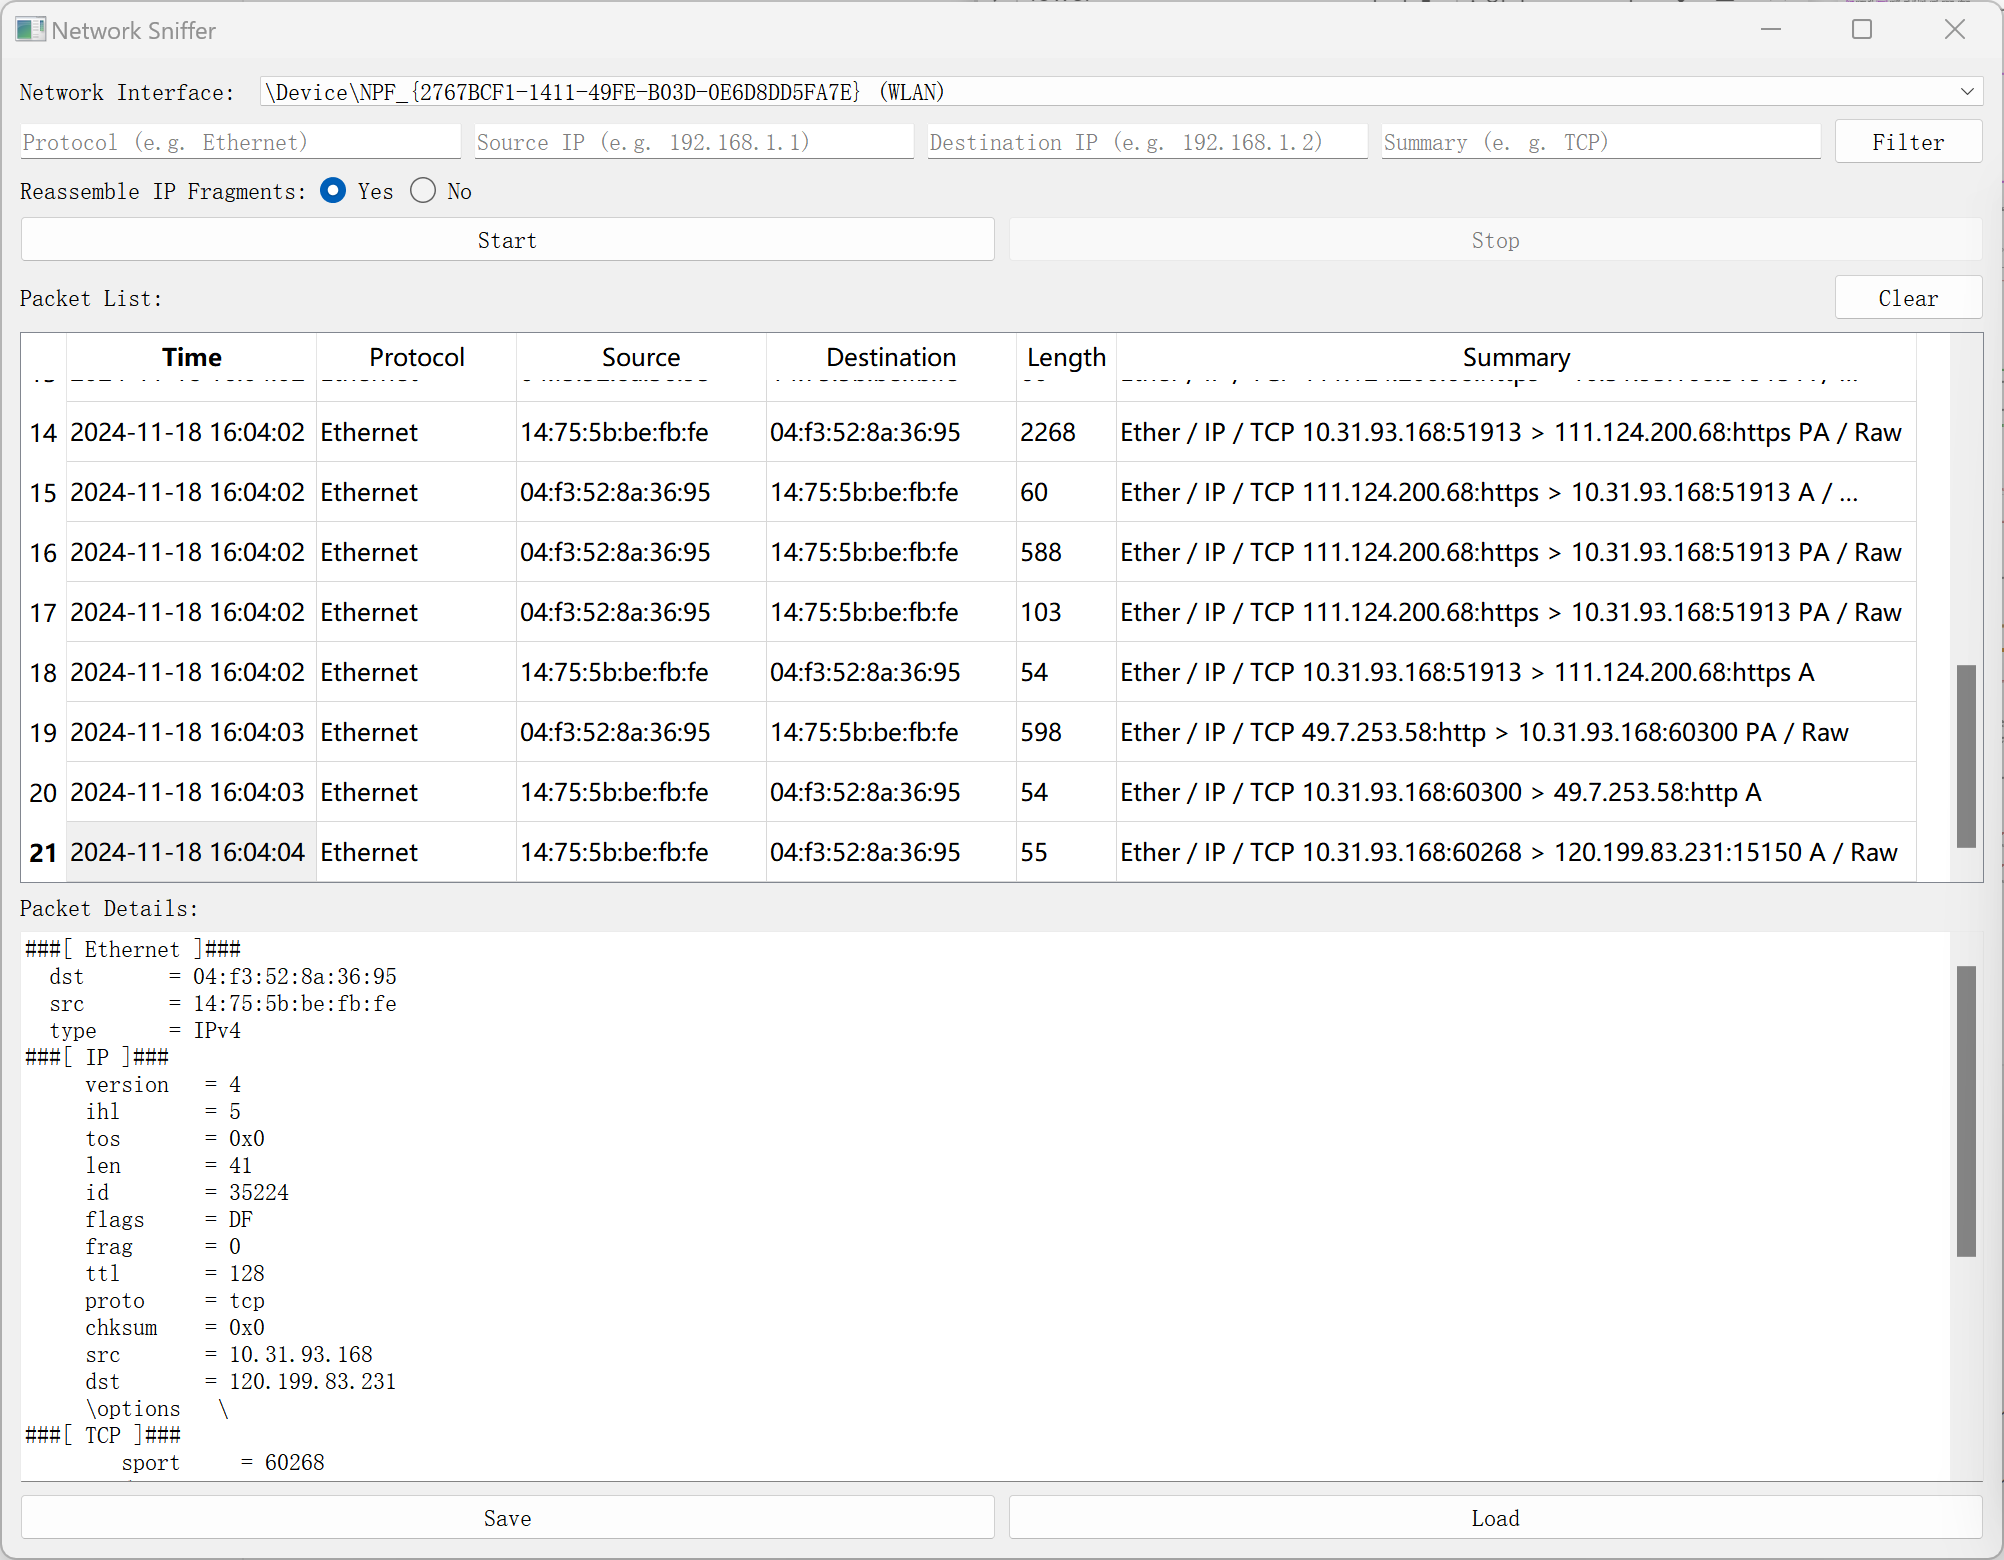
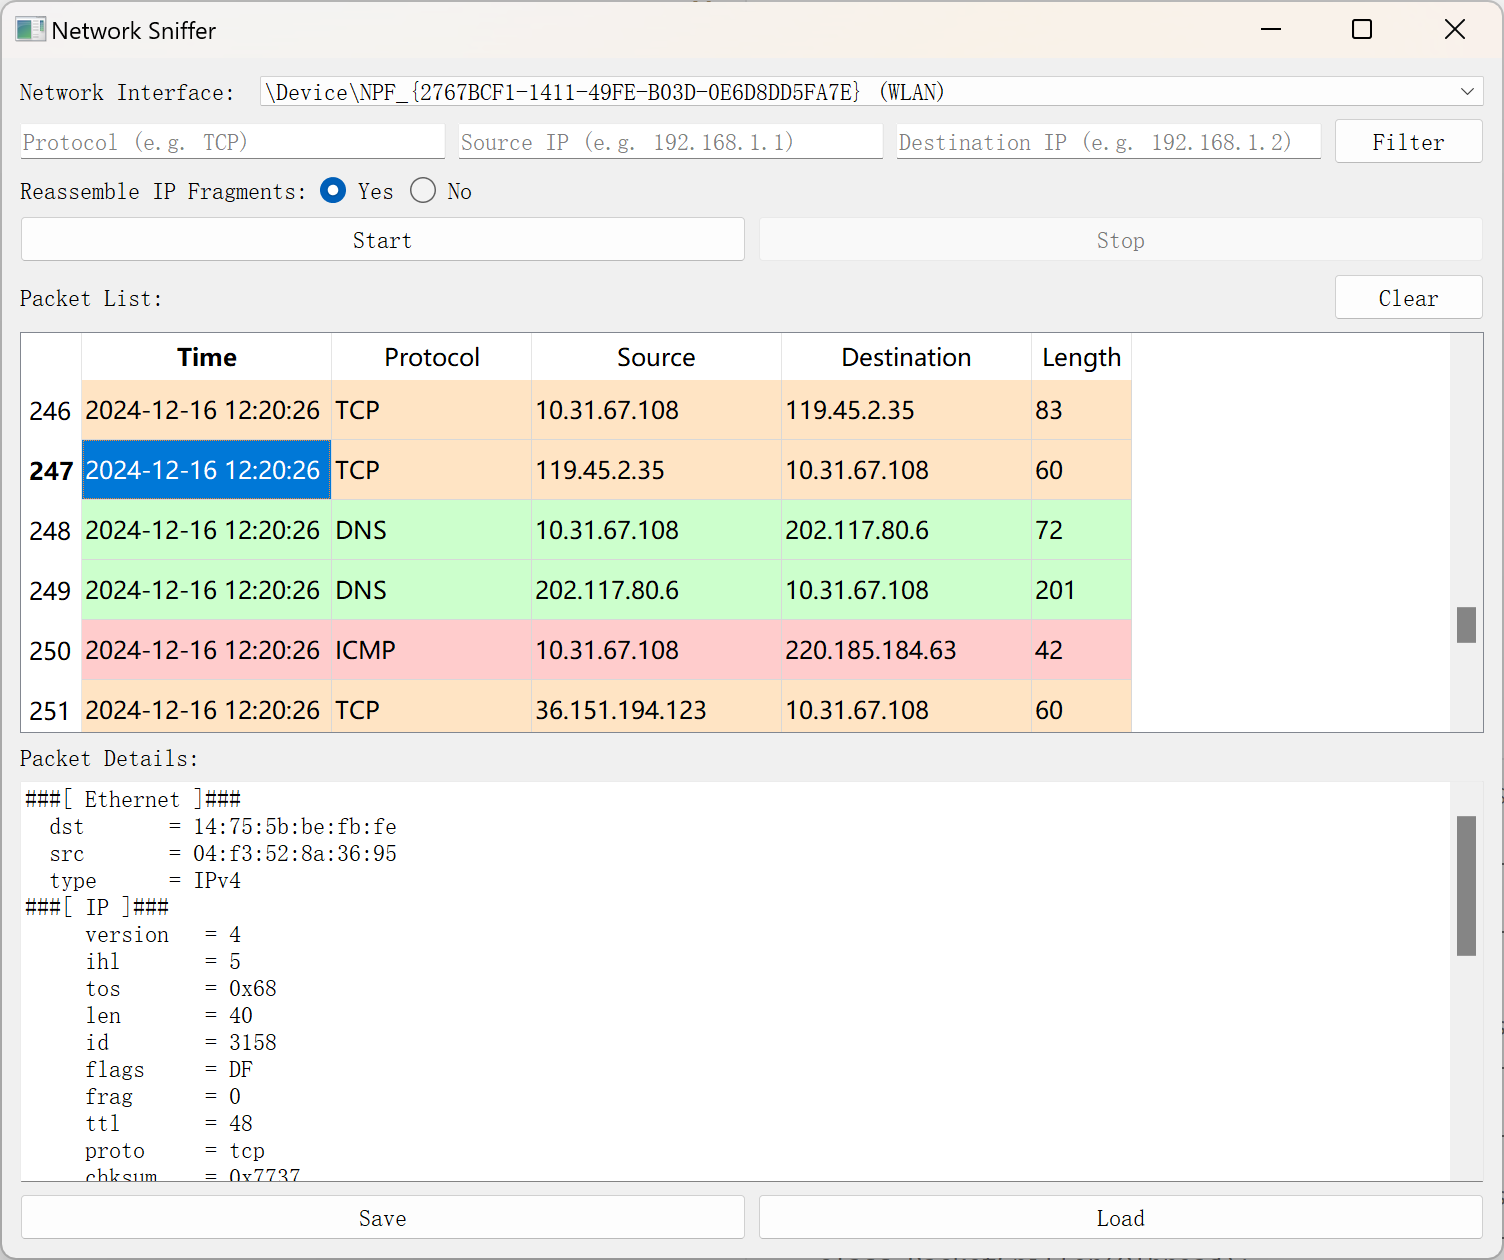
update

diff --git a/sniffer.py b/sniffer.py
@@ -2,7 +2,7 @@
 @file: sniffer.py
 @breif: Main file of Network Sniffer
 @author: Wu Maojia
-@update: 2024.11.18
+@update: 2024.12.16
 """
 import sys
 import pickle
@@ -12,12 +12,13 @@ from scapy.all import sniff, get_if_list, conf, wrpcap, rdpcap
 
 from PyQt5.QtWidgets import QApplication, QMainWindow, QTableWidgetItem, QMessageBox, QFileDialog
 from PyQt5.QtCore import Qt, pyqtSignal, QThread
+from PyQt5.QtGui import QColor
 
 from ui import Ui_MainWindow
 
 
 class PacketSniffer(QThread):
-    packet_captured = pyqtSignal(object)  # 定义信号，传递抓到的数据包对象
+    packet_captured = pyqtSignal(object)  # Define signal to pass captured packet object
 
     def __init__(self, iface):
         super().__init__()
@@ -25,15 +26,15 @@ class PacketSniffer(QThread):
         self.sniffing = True
 
     def run(self):
-        # 启动抓包，使用 stop_filter 作为停止标志
+        # Start packet capture, use stop_filter as a stop flag
         sniff(iface=self.iface, prn=self.handle_packet, stop_filter=lambda x: not self.sniffing)
 
     def handle_packet(self, packet):
-        # 如果符合条件则发送信号
+        # Emit signal if conditions are met
         self.packet_captured.emit(packet)
 
     def stop(self):
-        self.sniffing = False  # 终止抓包
+        self.sniffing = False  # Terminate packet capture
         self.quit()
 
 
@@ -43,7 +44,7 @@ class MainWindow(QMainWindow, Ui_MainWindow):
 
         self.setupUi(self)
 
-        # 初始化变量
+        # Initialize variables
         self.ifaces = []
         self.iface_aliases = []
         self.iface_packets = {}
@@ -51,11 +52,18 @@ class MainWindow(QMainWindow, Ui_MainWindow):
         self.filter_protocol = None
         self.filter_src = None
         self.filter_dst = None
-        self.filter_summary = None
 
         self.reassembleIP = True if self.yesReassembleRadioButton.isChecked() else False
 
-        # 初始化按钮
+        self.protocol_colors = {
+            'TCP': QColor(255, 228, 196),
+            'UDP': QColor(217, 217, 243),
+            'DNS': QColor(204, 255, 204),
+            'ICMP': QColor(255, 204, 204),
+            'Other': QColor(255, 255, 204)
+        }
+
+        # Initialize buttons
         self.startButton.clicked.connect(self.start_sniffing)
         self.stopButton.clicked.connect(self.stop_sniffing)
         self.filterButton.clicked.connect(self.filter)
@@ -67,7 +75,7 @@ class MainWindow(QMainWindow, Ui_MainWindow):
 
         self.stopButton.setEnabled(False)
 
-        # 初始化网卡列表
+        # Initialize network interface list
         for iface_name, iface_obj in conf.ifaces.items():
             self.ifaces.append(iface_name)
             self.iface_aliases.append(iface_name + ' (' + iface_obj.name + ')')
@@ -76,12 +84,11 @@ class MainWindow(QMainWindow, Ui_MainWindow):
         self.networkInterfacesComboBox.addItems(self.iface_aliases)
         self.networkInterfacesComboBox.currentIndexChanged.connect(self.switch_iface)
 
-        # 初始化Packet List，默认选择第一个网卡
-        self.packetTableWidget.setColumnCount(6)  # reset table header
-        self.packetTableWidget.setHorizontalHeaderLabels(["Time", "Protocol", "Source", "Destination", "Length", "Summary"])
-        self.packetTableWidget.setColumnWidth(1, 200)
+        # Initialize Packet List, default to the first network interface
+        self.packetTableWidget.setColumnCount(5)  # reset table header
+        self.packetTableWidget.setHorizontalHeaderLabels(["Time", "Protocol", "Source", "Destination", "Length"])
+        self.packetTableWidget.setColumnWidth(1, 500)
         self.packetTableWidget.setColumnWidth(4, 100)
-        self.packetTableWidget.setColumnWidth(5, 800)
         self.switch_iface(0)
 
     def switch_iface(self, index):
@@ -99,8 +106,7 @@ class MainWindow(QMainWindow, Ui_MainWindow):
         self.filter_protocol = self.protocolLineEdit.text()
         self.filter_src = self.sourceLineEdit.text()
         self.filter_dst = self.destinationLineEdit.text()
-        self.filter_summary = self.summaryLineEdit.text()
-        self.switch_iface(self.networkInterfacesComboBox.currentIndex())    # 刷新Packet List
+        self.switch_iface(self.networkInterfacesComboBox.currentIndex())    # Refresh Packet List
 
     def clear(self):
         selected_iface = self.ifaces[self.networkInterfacesComboBox.currentIndex()]
@@ -109,15 +115,15 @@ class MainWindow(QMainWindow, Ui_MainWindow):
         self.packetDetailsTextEdit.clear()
 
     def start_sniffing(self):
-        # 获取用户选择的网卡和过滤条件
+        # Get the user-selected network interface and filter conditions
         selected_iface = self.ifaces[self.networkInterfacesComboBox.currentIndex()]
 
-        # 创建并启动抓包线程
+        # Create and start the packet capture thread
         self.sniffer_thread = PacketSniffer(iface=selected_iface)
-        self.sniffer_thread.packet_captured.connect(self.process_packet)  # 连接信号到处理函数
+        self.sniffer_thread.packet_captured.connect(self.process_packet)  # Connect signal to processing function
         self.sniffer_thread.start()
 
-        # 更新按钮和选项状态
+        # Update button and option states
         self.startButton.setEnabled(False)
         self.stopButton.setEnabled(True)
         self.networkInterfacesComboBox.setEnabled(False)
@@ -125,25 +131,25 @@ class MainWindow(QMainWindow, Ui_MainWindow):
         self.noReassembleRadioButton.setEnabled(False)
 
     def stop_sniffing(self):
-        # 停止抓包线程
+        # Stop the packet capture thread
         if self.sniffer_thread:
             self.sniffer_thread.stop()
-            self.sniffer_thread.wait(3000)  # 最多等待3秒
+            self.sniffer_thread.wait(3000)  # Wait up to 3 seconds
             if self.sniffer_thread.isRunning():
                 reply = QMessageBox.question(None, 'Warning', 'Failed to stop the sniffer thread! Do you want to force it to terminate?',
                                  QMessageBox.Yes | QMessageBox.No, QMessageBox.No)
     
-                # 根据用户的回答执行相应操作
+                # Perform actions based on user response
                 if reply == QMessageBox.Yes:
                     self.sniffer_thread.terminate()
-                    self.sniffer_thread.wait(3000)  # 最多等待3秒
+                    self.sniffer_thread.wait(3000)  # Wait up to 3 seconds
                     if self.sniffer_thread.isRunning():
                         QMessageBox.Warning(None, 'Warning', 'Failed to forcefully terminate the sniffer thread!')
                         return
                 else:
                     return
 
-        # 更新按钮和选项状态
+        # Update button and option states
         self.startButton.setEnabled(True)
         self.stopButton.setEnabled(False)
         self.networkInterfacesComboBox.setEnabled(True)
@@ -151,57 +157,77 @@ class MainWindow(QMainWindow, Ui_MainWindow):
         self.noReassembleRadioButton.setEnabled(True)
 
     def process_packet(self, packet):
-        # 更新 iface_packets
+        # Update iface_packets
         selected_iface = self.ifaces[self.networkInterfacesComboBox.currentIndex()]
         self.iface_packets[selected_iface].append(packet)
 
         self.show_filtered_packet(packet)
 
+    def get_last_main_layer(self, packet):
+        current_layer = packet
+        last_main_layer = None
+        while current_layer:
+            if current_layer.name not in ["Padding", "Raw"]:
+                last_main_layer = current_layer
+            current_layer = current_layer.payload
+        return last_main_layer
+
     def show_filtered_packet(self, packet):
-        protocol = packet.name  # 协议类型
-        src = packet.src if hasattr(packet, 'src') else 'N/A'  # 源地址
-        dst = packet.dst if hasattr(packet, 'dst') else 'N/A'  # 目的地址
-        summary = packet.summary()
+        protocol = self.get_last_main_layer(packet).name  # Protocol type
+
+        if packet.haslayer('IP'):
+            ip_layer = packet['IP']
+            src = ip_layer.src  # Source IP address
+            dst = ip_layer.dst  # Destination IP address
+        else:
+            src = packet.src if hasattr(packet, 'src') else 'N/A'  # Source MAC address
+            dst = packet.dst if hasattr(packet, 'dst') else 'N/A'  # Destination MAC address
         
-        # 根据用户输入的过滤条件筛选数据包
+        # Filter packets based on user input
         if self.filter_protocol and self.filter_protocol.lower() not in protocol.lower():
             return
         if self.filter_src and self.filter_src != src:
             return
         if self.filter_dst and self.filter_dst != dst:
             return
-        if self.filter_summary and self.filter_summary.lower() not in summary.lower():
-            return
 
         self.show_packet(packet)
 
     def show_packet(self, packet):
-        # 处理每个抓到的数据包并更新界面
+        # Process each captured packet and update the UI
         timestamp = float(packet.time)
         readable_time = datetime.datetime.fromtimestamp(timestamp).strftime('%Y-%m-%d %H:%M:%S')
-        protocol = packet.name  # 协议类型
-        src = packet.src if hasattr(packet, 'src') else 'N/A'  # 源地址
-        dst = packet.dst if hasattr(packet, 'dst') else 'N/A'  # 目的地址
-        length = len(packet)  # 数据包长度
-        summary = packet.summary()
+        protocol = self.get_last_main_layer(packet).name  # Protocol type
 
-        # 在表格中显示简要信息
+        if packet.haslayer('IP'):
+            ip_layer = packet['IP']
+            src = ip_layer.src  # Source IP address
+            dst = ip_layer.dst  # Destination IP address
+        else:
+            src = packet.src if hasattr(packet, 'src') else 'N/A'  # Source MAC address
+            dst = packet.dst if hasattr(packet, 'dst') else 'N/A'  # Destination MAC address
+
+        length = len(packet)  # Packet length
+
+        # Display summary information in the table
         row_position = self.packetTableWidget.rowCount()
         self.packetTableWidget.insertRow(row_position)
-        self.packetTableWidget.setItem(row_position, 0, QTableWidgetItem(readable_time))
-        self.packetTableWidget.setItem(row_position, 1, QTableWidgetItem(protocol))
-        self.packetTableWidget.setItem(row_position, 2, QTableWidgetItem(src))
-        self.packetTableWidget.setItem(row_position, 3, QTableWidgetItem(dst))
-        self.packetTableWidget.setItem(row_position, 4, QTableWidgetItem(str(length)))
-        self.packetTableWidget.setItem(row_position, 5, QTableWidgetItem(summary))
 
-        # 为每行添加双击事件，显示详细信息
+        # Set color
+        color = self.protocol_colors.get(protocol, self.protocol_colors['Other'])
+        item_contents = [readable_time, protocol, src, dst, str(length)]
+        for col in range(5):
+            item = QTableWidgetItem(item_contents[col])
+            item.setBackground(color)
+            self.packetTableWidget.setItem(row_position, col, item)
+
+        # Add double-click event to each row to display detailed information
         self.packetTableWidget.itemClicked.connect(self.show_packet_details)
 
     def show_packet_details(self, item):
         row = item.row()
 
-        # 显示详细数据包信息
+        # Display detailed packet information
         selected_iface = self.ifaces[self.networkInterfacesComboBox.currentIndex()]
         packet = self.iface_packets[selected_iface][row]
         self.packetDetailsTextEdit.setPlainText(str(packet.show(dump=True)))

diff --git a/ui.py b/ui.py
@@ -14,7 +14,7 @@ from PyQt5 import QtCore, QtGui, QtWidgets
 class Ui_MainWindow(object):
     def setupUi(self, MainWindow):
         MainWindow.setObjectName("MainWindow")
-        MainWindow.resize(2000, 1500)
+        MainWindow.resize(1500, 1200)
         self.centralWidget = QtWidgets.QWidget(MainWindow)
         self.centralWidget.setObjectName("centralWidget")
         self.verticalLayout = QtWidgets.QVBoxLayout(self.centralWidget)
@@ -44,9 +44,6 @@ class Ui_MainWindow(object):
         self.destinationLineEdit = QtWidgets.QLineEdit(self.centralWidget)
         self.destinationLineEdit.setObjectName("destinationLineEdit")
         self.filterHorizontalLayout.addWidget(self.destinationLineEdit)
-        self.summaryLineEdit = QtWidgets.QLineEdit(self.centralWidget)
-        self.summaryLineEdit.setObjectName("summaryLineEdit")
-        self.filterHorizontalLayout.addWidget(self.summaryLineEdit)
         self.filterButton = QtWidgets.QPushButton(self.centralWidget)
         self.filterButton.setObjectName("filterButton")
         self.filterHorizontalLayout.addWidget(self.filterButton)
@@ -118,10 +115,9 @@ class Ui_MainWindow(object):
         _translate = QtCore.QCoreApplication.translate
         MainWindow.setWindowTitle(_translate("MainWindow", "Network Sniffer"))
         self.networkInterfaceLabel.setText(_translate("MainWindow", "Network Interface: "))
-        self.protocolLineEdit.setPlaceholderText(_translate("MainWindow", "Protocol (e.g. Ethernet)"))
+        self.protocolLineEdit.setPlaceholderText(_translate("MainWindow", "Protocol (e.g. TCP)"))
         self.sourceLineEdit.setPlaceholderText(_translate("MainWindow", "Source IP (e.g. 192.168.1.1)"))
         self.destinationLineEdit.setPlaceholderText(_translate("MainWindow", "Destination IP (e.g. 192.168.1.2)"))
-        self.summaryLineEdit.setPlaceholderText(_translate("MainWindow", "Summary (e.g. TCP)"))
         self.filterButton.setText(_translate("MainWindow", "Filter"))
         self.reassembleLabel.setText(_translate("MainWindow", "Reassemble IP Fragments:"))
         self.yesReassembleRadioButton.setText(_translate("MainWindow", "Yes"))
